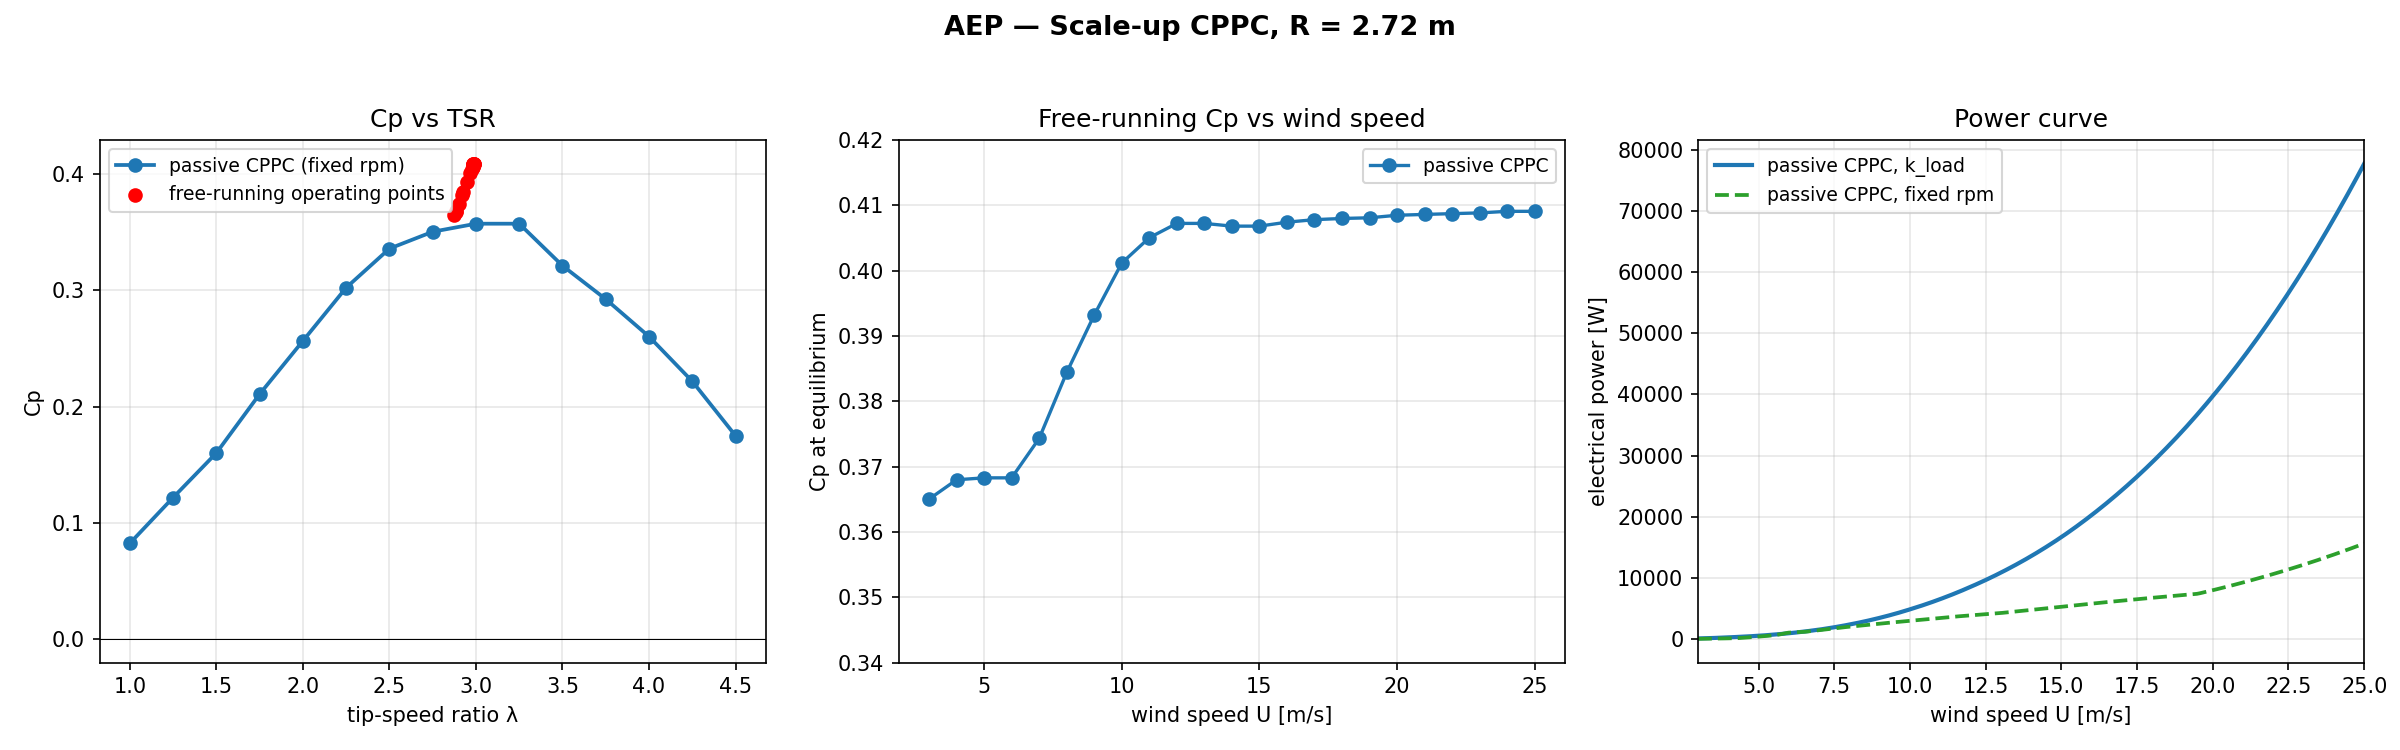
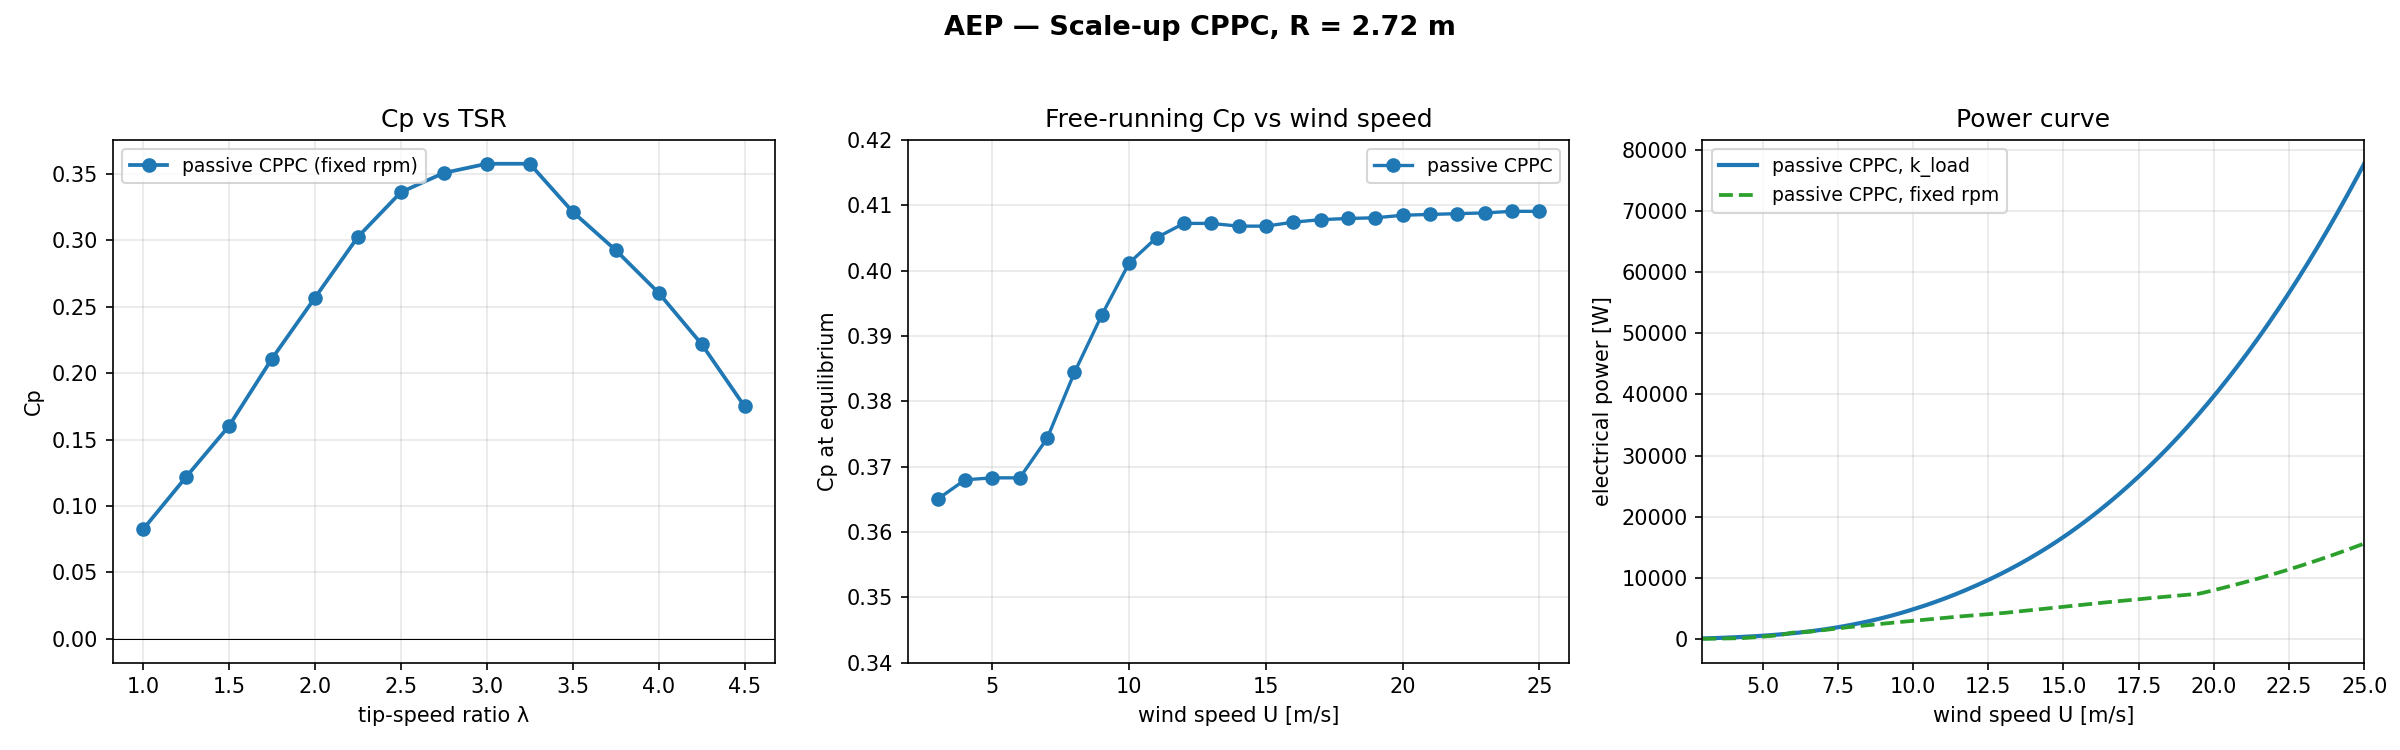
AEP plots: drop free-running scatter from Panel 1
- Remove the red free-running operating-point scatter from Panel 1 in
  compute_aep.py and compute_aep_scaleup.py. Panel 1 now shows only the
  fixed-rpm Cp(TSR) curve; its legend lists just 'passive CPPC (fixed rpm)'.
- Regenerate docs/aep.png and docs/aep_scaleup.png.
- CHANGELOG updated. Plot-only change; no physics, polar, or golden change.

diff --git a/scripts/compute_aep.py b/scripts/compute_aep.py
@@ -253,10 +253,6 @@ def make_plot(results, tsrs, out_path):
     a = ax[0]
     cp_tsr = medfilt(results['passive']['cp_tsr'], 3)
     a.plot(tsrs, cp_tsr, "o-", color=col_passive, lw=1.8, label="passive CPPC (fixed rpm)")
-    if fr:
-        tsr_pts = [f['tsr_eq'] for f in fr]
-        cp_pts = [f['cp'] for f in fr]
-        a.scatter(tsr_pts, cp_pts, color='red', zorder=5, label='free-running operating points')
     a.axhline(0, color="k", lw=0.5)
     a.set_xlabel("tip-speed ratio λ"); a.set_ylabel("Cp"); a.set_title("Cp vs TSR"); a.grid(alpha=0.3)
     a.legend(fontsize=9, loc="upper left")

diff --git a/scripts/compute_aep_scaleup.py b/scripts/compute_aep_scaleup.py
@@ -226,10 +226,6 @@ def main():
     a = ax[0]
     cp_tsr_smooth = medfilt(cps_tsr, 3)
     a.plot(tsrs, cp_tsr_smooth, "o-", color=col_passive, lw=1.8, label="passive CPPC (fixed rpm)")
-    if fr:
-        tsr_pts = [f['tsr_eq'] for f in fr]
-        cp_pts = [f['cp'] for f in fr]
-        a.scatter(tsr_pts, cp_pts, color='red', zorder=5, label='free-running operating points')
     a.axhline(0, color="k", lw=0.5)
     a.set_xlabel("tip-speed ratio λ"); a.set_ylabel("Cp"); a.set_title("Cp vs TSR at fixed rpm (scale-up)"); a.grid(alpha=0.3)
     a.legend(fontsize=9, loc="upper left")

diff --git a/CHANGELOG.md b/CHANGELOG.md
@@ -23,15 +23,16 @@ and this project adheres to [Semantic Versioning](https://semver.org/spec/v2.0.0
 
 ### Fixed
 - **AEP figure annotations and smoothing** (`docs/aep.png`,
-  `docs/aep_scaleup.png`): removed all `annotate`/leader arrows. Panel 1
-  identifies the free-running operating points through its legend in both
-  figures. A 3-point median filter (`scipy.signal.medfilt`) is now applied
-  to the plotted Cp(TSR) and free-running Cp(U) series to suppress
-  single-sample transients at TSR = 3.25 and U = 4. Panel 2 uses a static
-  `ax.text` box at (16, 0.38) with no arrow, y-limits fixed to 0.34–0.42,
-  and the box is drawn only when the smoothed curve has a genuine drawdown
-  greater than 0.03 Cp (so it appears in the branch-traced scale-up figure
-  but not in the flat base curve).
+  `docs/aep_scaleup.png`): removed the red "free-running operating points"
+  scatter from Panel 1 in both figures; Panel 1 now shows only the
+  fixed-rpm Cp(TSR) curve. A 3-point median filter
+  (`scipy.signal.medfilt`) is applied to the plotted Cp(TSR) and
+  free-running Cp(U) series to suppress single-sample transients at
+  TSR = 3.25 and U = 4. Panel 2 uses a static `ax.text` box at
+  (16, 0.38) with no arrow, y-limits fixed to 0.34–0.42, and the box is
+  drawn only when the smoothed curve has a genuine drawdown greater than
+  0.03 Cp (so it appears in the branch-traced scale-up figure but not in
+  the flat base curve).
 
   The filter is applied **inside the plotting code only**: JSON outputs,
   AEP integrals, and regression goldens are unchanged. The unfiltered
